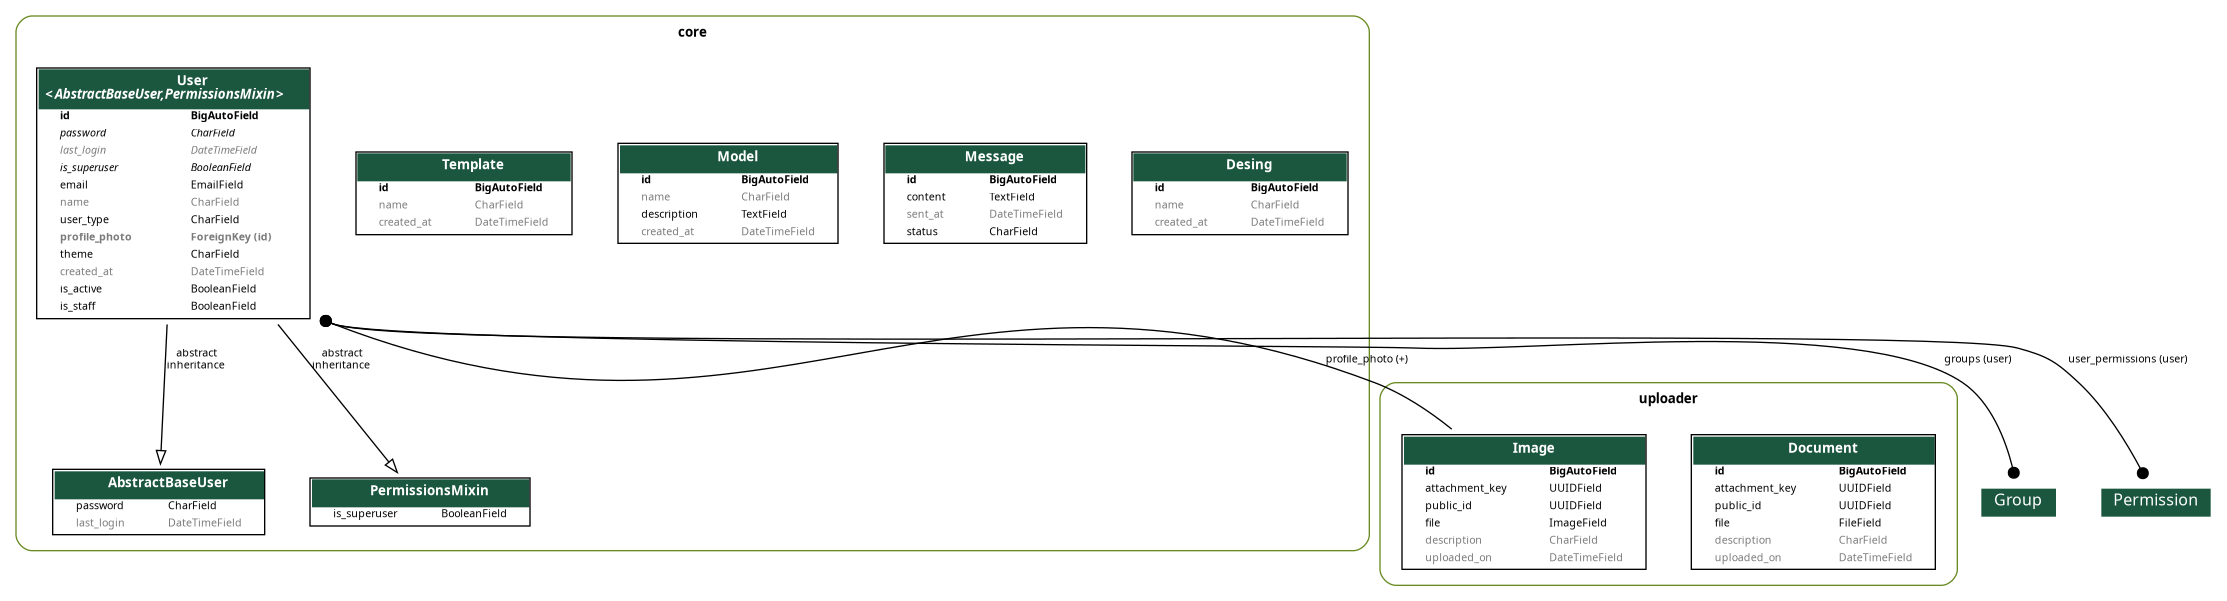
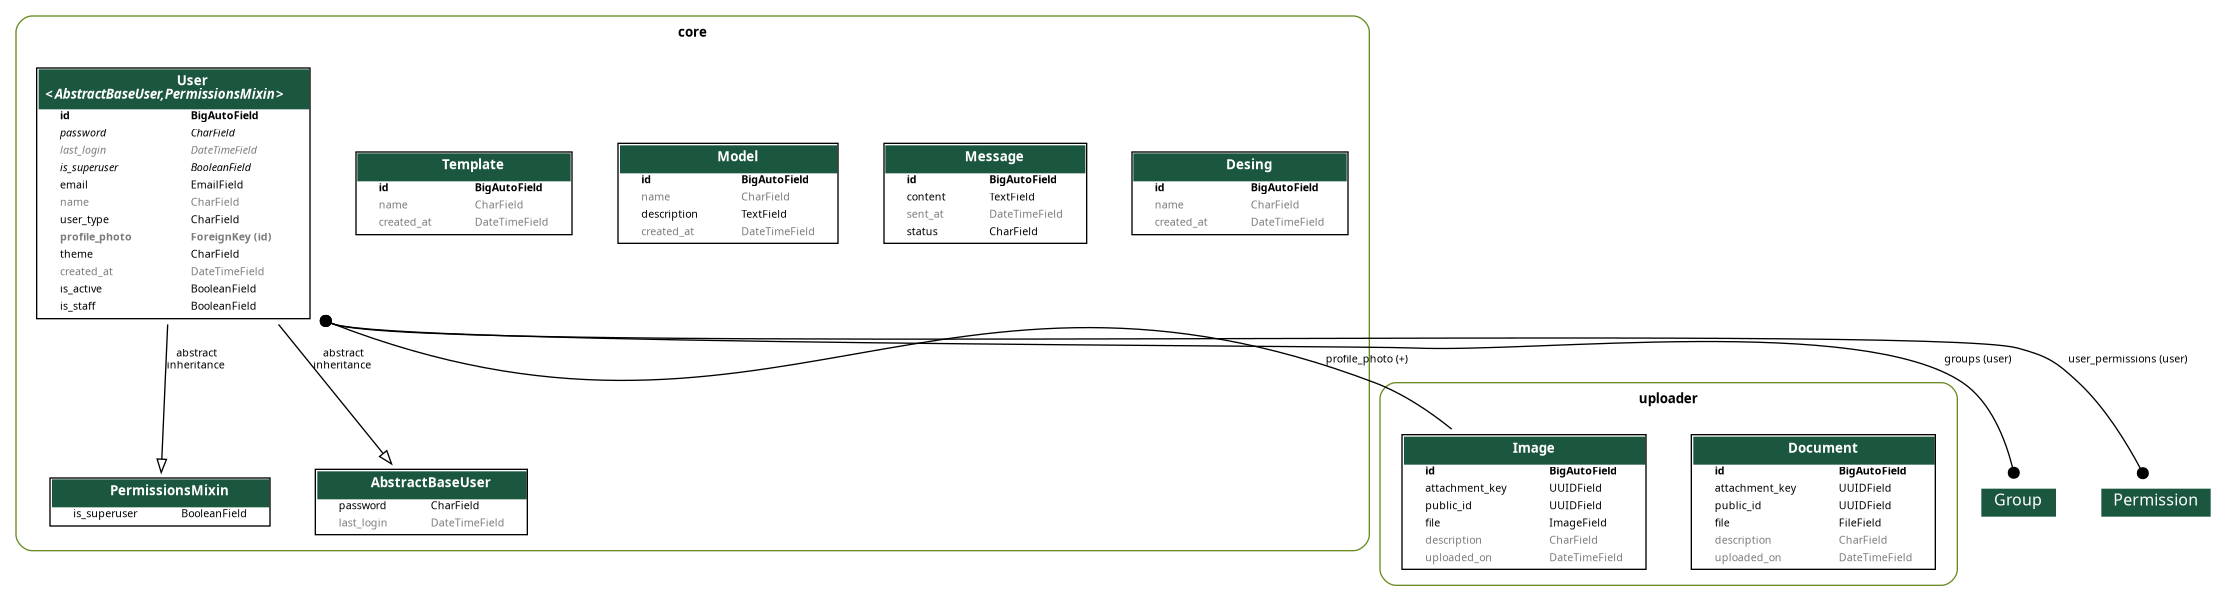
Feat: Atualizando o banco para confirmar a senha atual antes de atualizar pra nova

Changed region(s): [[0.0, 0.7488, 0.2479, 0.8985], [0.1239, 0.5691, 0.1859, 0.629]]

diff --git a/core/serializers/user.py b/core/serializers/user.py
@@ -39,12 +39,8 @@ class UserSerializer(ModelSerializer):
     )
 
     def update(self, instance, validated_data):
-        password = validated_data.pop('password', None)
-        instance = super().update(instance, validated_data)
-        if password:
-            instance.set_password(password)
-            instance.save()
-        return instance
+        validated_data.pop('password', None)
+        return super().update(instance, validated_data)
 
 
 class UserRegistrationSerializer(ModelSerializer):
@@ -56,3 +52,20 @@ class UserRegistrationSerializer(ModelSerializer):
 
     def create(self, validated_data):
         return User.objects.create_user(**validated_data)
+
+
+class ChangePasswordSerializer(serializers.Serializer):
+    current_password = serializers.CharField(write_only=True, required=True)
+    new_password = serializers.CharField(write_only=True, required=True, min_length=8)
+
+    def validate_current_password(self, value):
+        user = self.context['request'].user
+        if not user.check_password(value):
+            raise serializers.ValidationError('Senha atual incorreta.')
+        return value
+
+    def save(self, **kwargs):
+        user = self.context['request'].user
+        user.set_password(self.validated_data['new_password'])
+        user.save()
+        return user

diff --git a/core/views/user.py b/core/views/user.py
@@ -7,7 +7,7 @@ from rest_framework.response import Response
 from rest_framework.viewsets import ModelViewSet
 
 from core.models import User
-from core.serializers import UserRegistrationSerializer, UserSerializer
+from core.serializers import ChangePasswordSerializer, UserRegistrationSerializer, UserSerializer
 
 
 class UserViewSet(ModelViewSet):
@@ -34,6 +34,20 @@ class UserViewSet(ModelViewSet):
         serializer.is_valid(raise_exception=True)
         serializer.save()
         return Response(serializer.data, status=status.HTTP_200_OK)
+
+    @extend_schema(
+        summary="Alterar senha",
+        description="Altera a senha do usuário autenticado, exigindo a senha atual.",
+        request=ChangePasswordSerializer,
+        responses={200: None, 400: None},
+    )
+    @action(detail=False, methods=['post'], permission_classes=[IsAuthenticated])
+    def change_password(self, request):
+        """Altera a senha do usuário autenticado, após validar a senha atual."""
+        serializer = ChangePasswordSerializer(data=request.data, context={'request': request})
+        serializer.is_valid(raise_exception=True)
+        serializer.save()
+        return Response({'detail': 'Senha alterada com sucesso.'}, status=status.HTTP_200_OK)
 
 
 class UserRegistrationView(CreateAPIView):

diff --git a/core/serializers/__init__.py b/core/serializers/__init__.py
@@ -2,4 +2,4 @@ from .desing import DesingSerializer
 from .message import MessageSerializer
 from .model import ModelSerializer
 from .template import TemplateSerializer
-from .user import UserRegistrationSerializer, UserSerializer
+from .user import ChangePasswordSerializer, UserRegistrationSerializer, UserSerializer
